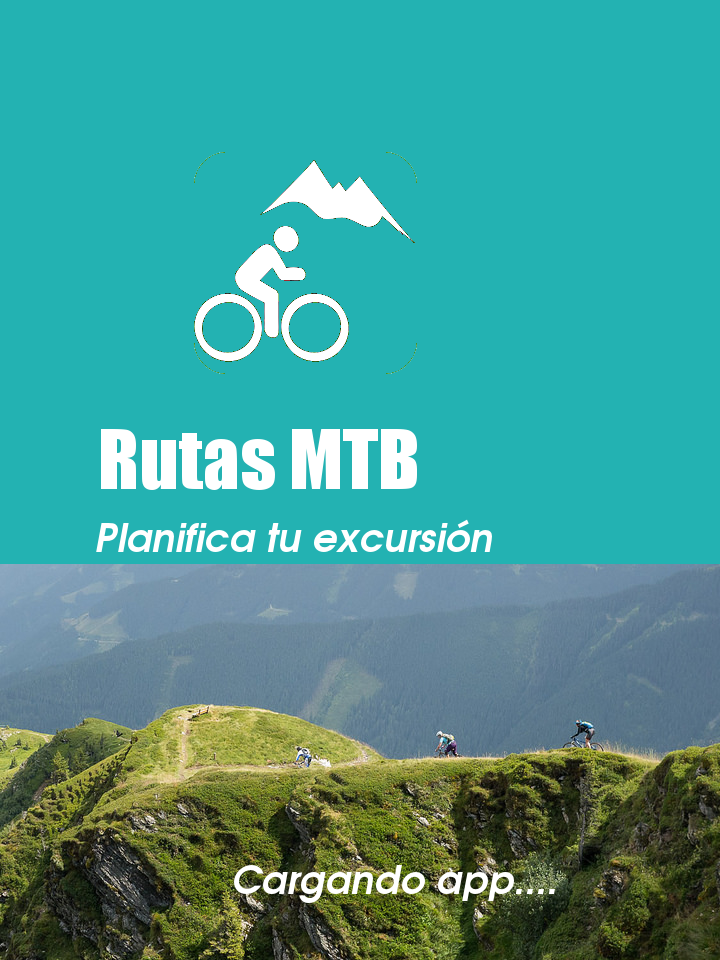
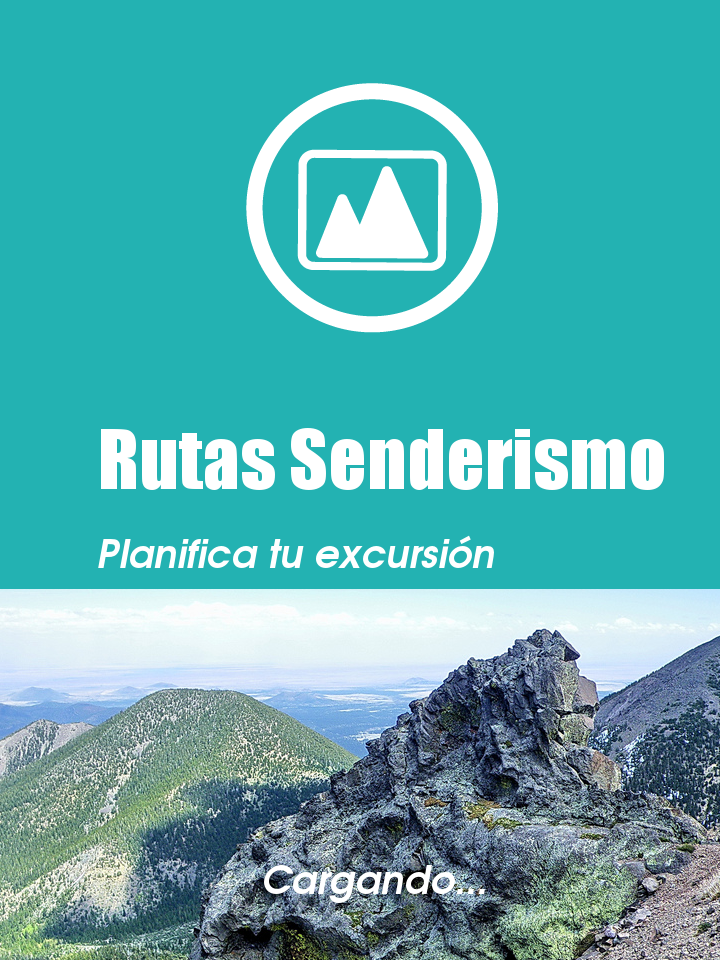
1st release

diff --git a/www/index.html b/www/index.html
@@ -33,7 +33,7 @@
 }
 </style>
 
-<title>Rutas MTB</title>
+<title>Rutas Senderismo</title>
 
 <script src="cordova.js"></script>
 <script src="./js/jquery-2.1.4.min.js"></script>
@@ -62,10 +62,10 @@
 
 <!-- jqplot -->
 <!--[if lt IE 9]><script language="javascript" type="text/javascript" src="./js/excanvas.js"></script><![endif]-->
-<script language="javascript" type="text/javascript" src="./js/jquery.jqplot.min.js"></script>
-<script language="javascript" type="text/javascript" src="./js/jqplot.canvasAxisLabelRenderer.js"></script>
-<script language="javascript" type="text/javascript" src="./js/jqplot.canvasTextRenderer.js"></script>
-<script language="javascript" type="text/javascript" src="./js/jqplot.pointLabels.js"></script>
+<script  type="text/javascript" src="./js/jquery.jqplot.min.js"></script>
+<script  type="text/javascript" src="./js/jqplot.canvasAxisLabelRenderer.js"></script>
+<script  type="text/javascript" src="./js/jqplot.canvasTextRenderer.js"></script>
+<script  type="text/javascript" src="./js/jqplot.pointLabels.js"></script>
 
 
 
@@ -95,7 +95,7 @@ var num_interstitial = 0;
 
 var BACK_END_SERVER = 'https://www.buscamapas.com';
 
-var GEO_TABLE = 'rutas_mtb';
+var GEO_TABLE = 'rutas_senderismo';
 
 var depago = false;
 
